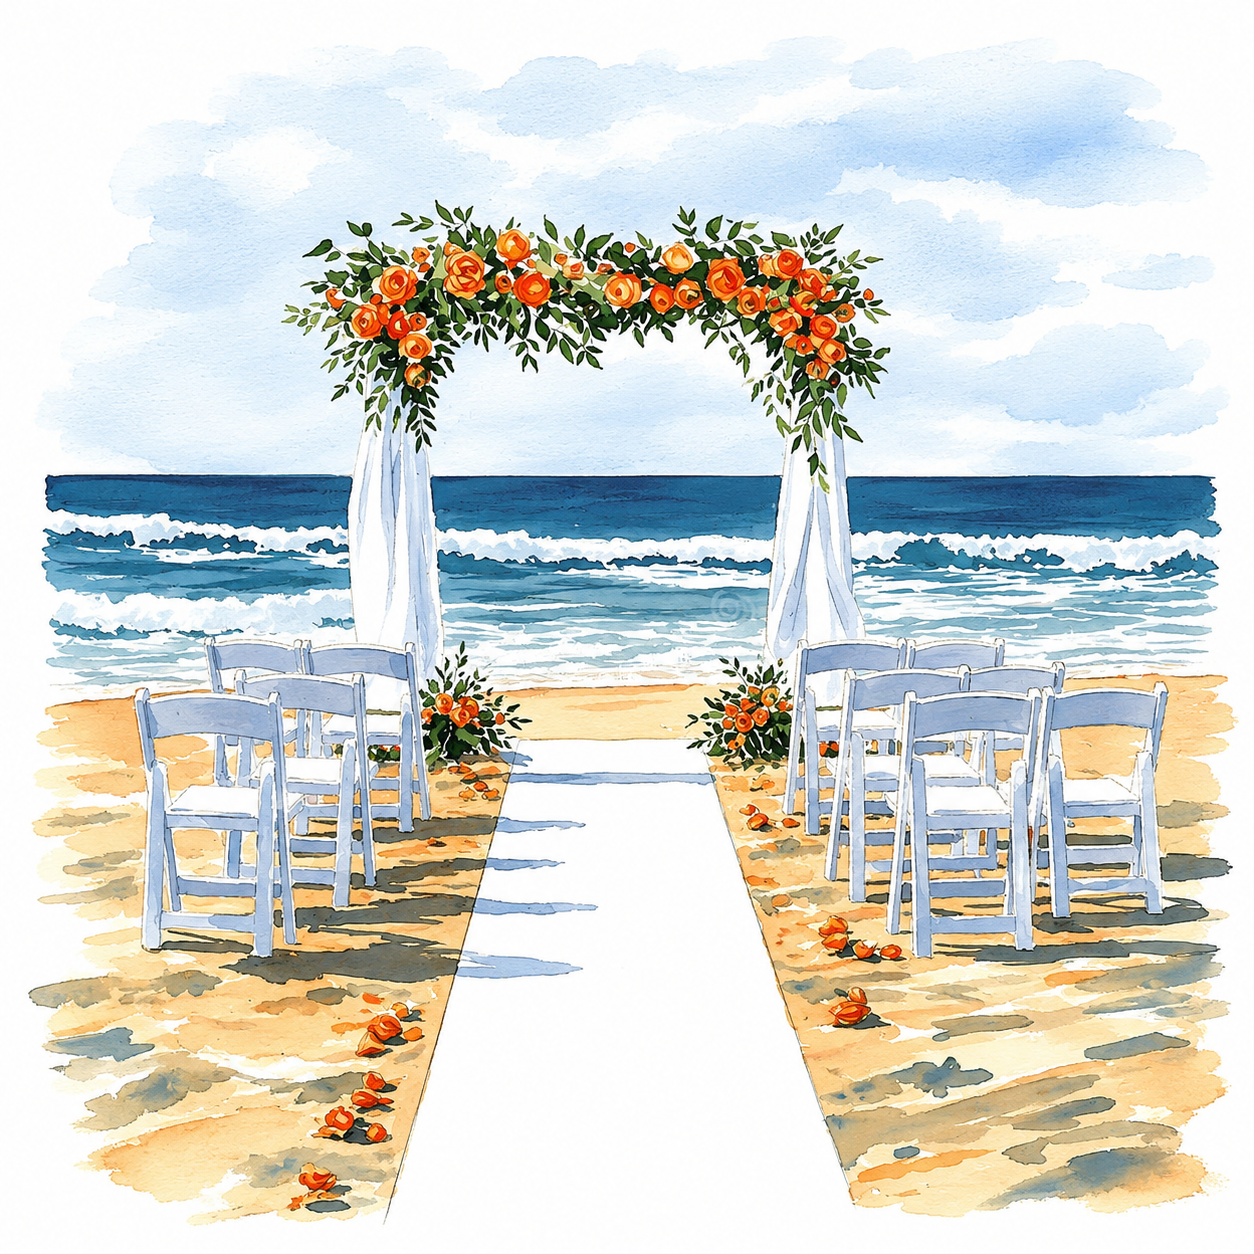
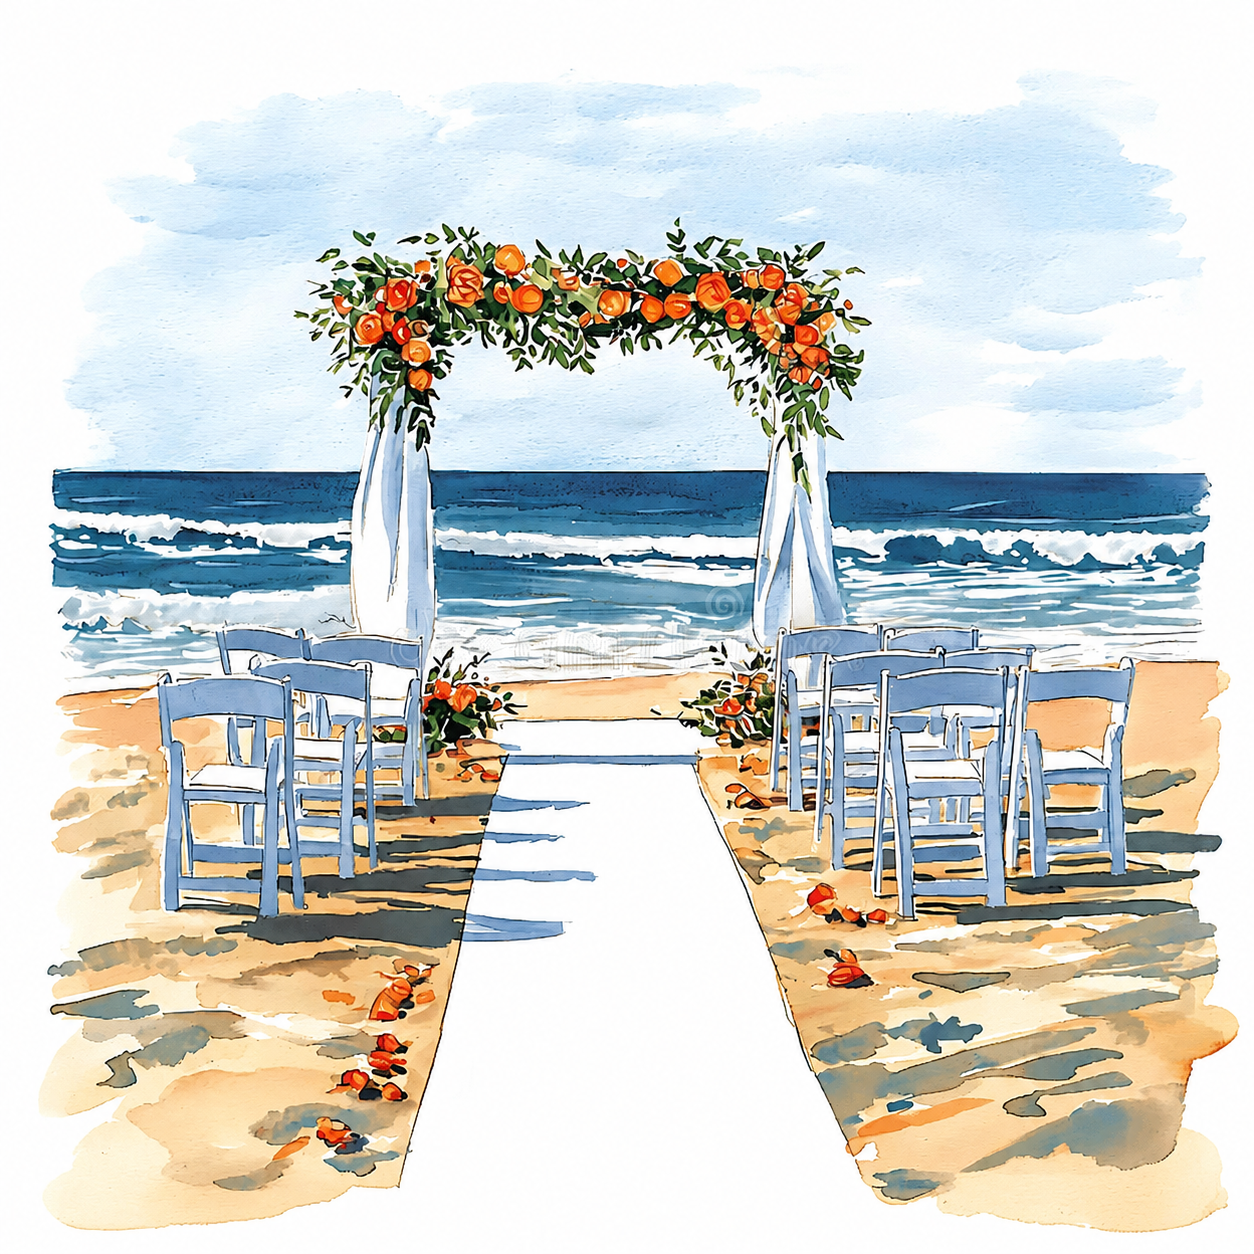
fix

diff --git a/src/pages/Dashboard.jsx b/src/pages/Dashboard.jsx
@@ -15,6 +15,14 @@ const PHOTO_FIT_OPTIONS = [
   { value: 'contain', label: 'Fit', hint: 'Keep the whole photo visible' },
 ];
 const normalizePhotoFit = (value) => (value === 'contain' || value === 'fit' ? 'contain' : 'cover');
+// The envelope "A Note" message every design shows in its demo — used as the
+// placeholder so a blank field keeps the default note.
+const DEFAULT_ENVELOPE_MESSAGE = 'Thank you for being part of the moments that brought us here. We feel incredibly lucky to celebrate this beginning with the people we love most.';
+// Optional fields a design actually renders — matches the order flow so the
+// dashboard only offers toggles that affect the chosen invitation.
+const TEMPLATE_FIELD_SUPPORT = {
+  theater: { venueAddress: false },
+};
 
 export default function Dashboard() {
   const { editToken } = useParams();
@@ -30,6 +38,7 @@ export default function Dashboard() {
   // Edit mode
   const [editing, setEditing] = useState(false);
   const [editForm, setEditForm] = useState({});
+  const [editDisabledFields, setEditDisabledFields] = useState([]);
   const [editPhotos, setEditPhotos] = useState({ story: [], gallery: [] });
   const [editStoryMilestones, setEditStoryMilestones] = useState([]);
   const [photoUploading, setPhotoUploading] = useState({});
@@ -66,8 +75,9 @@ export default function Dashboard() {
       venue: wd.venue || '',
       venueAddress: wd.venueAddress || '',
       venueMapUrl: wd.venueMapUrl || '',
-      message: wd.message || '',
+      coupleMessage: order.coupleMessage || '',
     });
+    setEditDisabledFields(Array.isArray(order.disabledFields) ? order.disabledFields : []);
     // Categorize existing photos. Venue photos are no longer edited separately,
     // so any legacy venue/uncategorized photos fold into the gallery.
     const allPhotos = order.photos || [];
@@ -183,6 +193,12 @@ export default function Dashboard() {
     setEditForm(prev => ({ ...prev, [key]: value }));
   };
 
+  // Optional fields can be turned on/off, mirroring the order flow.
+  const isFieldDisabled = (key) => editDisabledFields.includes(key);
+  const toggleEditField = (key) => {
+    setEditDisabledFields(prev => (prev.includes(key) ? prev.filter(k => k !== key) : [...prev, key]));
+  };
+
   const handleEditPhotoUpload = async (e, category) => {
     const files = e.target.files;
     if (!files.length) return;
@@ -230,7 +246,6 @@ export default function Dashboard() {
         venue: editForm.venue,
         venueAddress: editForm.venueAddress || undefined,
         venueMapUrl: editForm.venueMapUrl || undefined,
-        message: editForm.message || undefined,
       };
       // Include name fields if they were editable (grace period)
       if (nameEditable) {
@@ -249,6 +264,8 @@ export default function Dashboard() {
         headers: { 'Content-Type': 'application/json' },
         body: JSON.stringify({
           weddingDetails: weddingDetailsPayload,
+          coupleMessage: editForm.coupleMessage?.trim() || '',
+          disabledFields: editDisabledFields,
           photos: flattenEditPhotos(),
           storyMilestones: cleanedMilestones,
         }),
@@ -301,6 +318,7 @@ export default function Dashboard() {
 
   const inviteUrl = `${window.location.origin}/i/${order.publicSlug}`;
   const wd = order.weddingDetails || {};
+  const venueAddressSupported = (TEMPLATE_FIELD_SUPPORT[order.template?.slug] || {}).venueAddress !== false;
 
   return (
     <div className="dash-page">
@@ -429,17 +447,56 @@ export default function Dashboard() {
                   <label>Venue Name</label>
                   <input type="text" value={editForm.venue} onChange={e => handleEditInput('venue', e.target.value)} />
                 </div>
-                <div className="form-field">
-                  <label>Venue Address</label>
-                  <input type="text" value={editForm.venueAddress} onChange={e => handleEditInput('venueAddress', e.target.value)} />
+                {venueAddressSupported && (
+                  <div className={`form-field ${isFieldDisabled('venueAddress') ? 'field-disabled' : ''}`}>
+                    <div className="dash-field-header">
+                      <label>Venue Address</label>
+                      <button type="button" className="dash-field-toggle" onClick={() => toggleEditField('venueAddress')}>
+                        {isFieldDisabled('venueAddress') ? 'Enable' : 'Disable'}
+                      </button>
+                    </div>
+                    {!isFieldDisabled('venueAddress') && (
+                      <input type="text" value={editForm.venueAddress} onChange={e => handleEditInput('venueAddress', e.target.value)} />
+                    )}
+                  </div>
+                )}
+                <div className={`form-field ${isFieldDisabled('venueMapUrl') ? 'field-disabled' : ''}`}>
+                  <div className="dash-field-header">
+                    <label>Google Maps Link</label>
+                    <button type="button" className="dash-field-toggle" onClick={() => toggleEditField('venueMapUrl')}>
+                      {isFieldDisabled('venueMapUrl') ? 'Enable' : 'Disable'}
+                    </button>
+                  </div>
+                  {!isFieldDisabled('venueMapUrl') && (
+                    <input type="url" value={editForm.venueMapUrl} onChange={e => handleEditInput('venueMapUrl', e.target.value)} />
+                  )}
                 </div>
-                <div className="form-field">
-                  <label>Google Maps Link</label>
-                  <input type="url" value={editForm.venueMapUrl} onChange={e => handleEditInput('venueMapUrl', e.target.value)} />
+                <div className={`form-field full-width ${isFieldDisabled('coupleMessage') ? 'field-disabled' : ''}`}>
+                  <div className="dash-field-header">
+                    <label>Envelope Message</label>
+                    <button type="button" className="dash-field-toggle" onClick={() => toggleEditField('coupleMessage')}>
+                      {isFieldDisabled('coupleMessage') ? 'Enable' : 'Disable'}
+                    </button>
+                  </div>
+                  {!isFieldDisabled('coupleMessage') && (
+                    <>
+                      <textarea rows={4} value={editForm.coupleMessage} placeholder={DEFAULT_ENVELOPE_MESSAGE} onChange={e => handleEditInput('coupleMessage', e.target.value)} />
+                      <p className="form-hint">Shown inside the envelope. Leave blank to keep the demo note.</p>
+                    </>
+                  )}
                 </div>
-                <div className="form-field full-width">
-                  <label>Personal Message</label>
-                  <textarea rows={3} value={editForm.message} onChange={e => handleEditInput('message', e.target.value)} />
+                <div className={`form-field full-width ${isFieldDisabled('rsvp') ? 'field-disabled' : ''}`}>
+                  <div className="dash-field-header">
+                    <label>RSVP Section</label>
+                    <button type="button" className="dash-field-toggle" onClick={() => toggleEditField('rsvp')}>
+                      {isFieldDisabled('rsvp') ? 'Enable' : 'Disable'}
+                    </button>
+                  </div>
+                  <p className="form-hint" style={{ margin: 0 }}>
+                    {isFieldDisabled('rsvp')
+                      ? 'Guests won’t see an RSVP form on your invitation.'
+                      : 'Guests can RSVP directly from your invitation.'}
+                  </p>
                 </div>
               </div>
 

diff --git a/src/styles/OrderSuccess.css b/src/styles/OrderSuccess.css
@@ -44,58 +44,82 @@
   line-height: 1.7;
 }
 
-.success-links {
-  display: flex;
-  flex-direction: column;
-  gap: 12px;
-  margin-bottom: 32px;
-}
-
-.success-link-card {
+/* Private code chip */
+.success-code {
   background: var(--bg-alt);
+  border: 1px solid var(--border-light);
   border-radius: var(--radius-md);
-  padding: 14px 16px;
+  padding: 16px 18px;
+  margin-bottom: 28px;
   text-align: left;
-  display: grid;
-  grid-template-columns: minmax(0, 1fr) auto;
-  gap: 6px 12px;
-  align-items: center;
 }
-.link-label {
+.success-code-label {
   display: block;
-  grid-column: 1 / -1;
   font-size: 0.72rem;
-  font-weight: 500;
+  font-weight: 600;
   letter-spacing: 0.08em;
   text-transform: uppercase;
   color: var(--text-light);
-  margin-bottom: 6px;
+  margin-bottom: 8px;
 }
-.success-link-card code {
-  font-size: 0.82rem;
+.success-code-row {
+  display: flex;
+  align-items: center;
+  gap: 10px;
+}
+.success-code-row code {
+  flex: 1;
+  font-size: 1.05rem;
+  font-weight: 600;
+  letter-spacing: 0.04em;
   color: var(--gold);
   word-break: break-all;
 }
-.success-link-card button {
+.success-code-copy {
+  flex: 0 0 auto;
   border: 1px solid var(--border-light);
   border-radius: var(--radius-sm);
   background: var(--white);
   color: var(--text);
-  padding: 7px 10px;
+  padding: 8px 14px;
   font: inherit;
-  font-size: 0.78rem;
+  font-size: 0.8rem;
+  font-weight: 500;
   cursor: pointer;
+  transition: var(--transition);
 }
-.success-link-card button:hover {
+.success-code-copy:hover {
   border-color: var(--gold);
   color: var(--gold);
 }
+.success-code-hint {
+  display: block;
+  margin-top: 8px;
+  font-size: 0.78rem;
+  color: var(--text-secondary);
+}
 
+/* Action buttons — stacked, full-width, clear hierarchy */
 .success-actions {
   display: flex;
-  gap: 12px;
+  flex-direction: column;
+  gap: 10px;
+  align-items: stretch;
+}
+.success-btn {
+  width: 100%;
   justify-content: center;
-  flex-wrap: wrap;
+  min-height: 50px;
+}
+.success-home-link {
+  margin-top: 6px;
+  font-size: 0.88rem;
+  font-weight: 500;
+  color: var(--text-secondary);
+  transition: var(--transition);
+}
+.success-home-link:hover {
+  color: var(--gold);
 }
 
 .success-loading {

diff --git a/src/pages/OrderSuccess.jsx b/src/pages/OrderSuccess.jsx
@@ -46,7 +46,6 @@ export default function OrderSuccess() {
 
   const isPaid = order?.paymentStatus === 'paid';
   const invitationUrl = order?.invitationUrl || (order?.publicSlug ? `${window.location.origin}/i/${order.publicSlug}` : '');
-  const dashboardUrl = order?.dashboardUrl || (order?.editToken ? `${window.location.origin}/dashboard/${order.editToken}` : '');
   const copyLink = async (value, key) => {
     if (!value) return;
     await navigator.clipboard.writeText(value);
@@ -87,58 +86,42 @@ export default function OrderSuccess() {
 
           <h1>Payment Verified</h1>
           <p className="success-subtitle">
-            Congratulations! Your invitation is live now. We also sent these links to your email.
+            Congratulations! Your invitation is live. We've also emailed your links and private code.
           </p>
 
-          {invitationUrl && (
-            <div className="success-links">
-              {order.invitationCode && (
-                <div className="success-link-card">
-                  <span className="link-label">Invitation Code</span>
-                  <code>{order.invitationCode}</code>
-                  <button type="button" onClick={() => copyLink(order.invitationCode, 'code')}>
-                    {copied === 'code' ? 'Copied' : 'Copy'}
-                  </button>
-                </div>
-              )}
-              <div className="success-link-card">
-                <span className="link-label">Invitation Link (share with guests)</span>
-                <code>{invitationUrl}</code>
-                <button type="button" onClick={() => copyLink(invitationUrl, 'invitation')}>
-                  {copied === 'invitation' ? 'Copied' : 'Copy'}
+          {order.invitationCode && (
+            <div className="success-code">
+              <span className="success-code-label">Your private code</span>
+              <div className="success-code-row">
+                <code>{order.invitationCode}</code>
+                <button type="button" className="success-code-copy" onClick={() => copyLink(order.invitationCode, 'code')}>
+                  {copied === 'code' ? 'Copied!' : 'Copy'}
                 </button>
               </div>
-              {dashboardUrl && (
-                <div className="success-link-card">
-                  <span className="link-label">Dashboard & Edit (private - check your email)</span>
-                  <code>{dashboardUrl}</code>
-                  <button type="button" onClick={() => copyLink(dashboardUrl, 'dashboard')}>
-                    {copied === 'dashboard' ? 'Copied' : 'Copy'}
-                  </button>
-                </div>
-              )}
+              <span className="success-code-hint">Keep this safe — you'll need it to manage your invitation.</span>
             </div>
           )}
 
           <div className="success-actions">
             {order.publicSlug && (
-              <Link to={`/i/${order.publicSlug}`} className="btn btn-gold">
+              <Link to={`/i/${order.publicSlug}`} className="btn btn-gold success-btn">
                 <svg width="18" height="18" viewBox="0 0 24 24" fill="none" stroke="currentColor" strokeWidth="2" strokeLinecap="round" strokeLinejoin="round"><path d="M18 13v6a2 2 0 01-2 2H5a2 2 0 01-2-2V8a2 2 0 012-2h6" /><polyline points="15 3 21 3 21 9" /><line x1="10" y1="14" x2="21" y2="3" /></svg>
                 Open Invitation
               </Link>
             )}
             {invitationUrl && (
-              <button type="button" className="btn btn-gold" onClick={shareInvitation}>
+              <button type="button" className="btn btn-gold success-btn" onClick={shareInvitation}>
                 <svg width="18" height="18" viewBox="0 0 24 24" fill="none" stroke="currentColor" strokeWidth="2" strokeLinecap="round" strokeLinejoin="round"><circle cx="18" cy="5" r="3" /><circle cx="6" cy="12" r="3" /><circle cx="18" cy="19" r="3" /><line x1="8.59" y1="13.51" x2="15.42" y2="17.49" /><line x1="15.41" y1="6.51" x2="8.59" y2="10.49" /></svg>
                 {copied === 'share' ? 'Copied!' : 'Share Invitation'}
               </button>
             )}
             {order.editToken && (
-              <Link to={`/dashboard/${order.editToken}`} className="btn btn-secondary">
+              <Link to={`/dashboard/${order.editToken}`} className="btn btn-secondary success-btn">
+                <svg width="18" height="18" viewBox="0 0 24 24" fill="none" stroke="currentColor" strokeWidth="2" strokeLinecap="round" strokeLinejoin="round"><path d="M3 9l9-7 9 7v11a2 2 0 01-2 2H5a2 2 0 01-2-2z" /><polyline points="9 22 9 12 15 12 15 22" /></svg>
                 Go to Dashboard
               </Link>
             )}
-            <Link to="/" className="btn btn-secondary">Back to Home</Link>
+            <Link to="/" className="success-home-link">Back to Home</Link>
           </div>
         </div>
       </div>

diff --git a/src/styles/Dashboard.css b/src/styles/Dashboard.css
@@ -368,6 +368,33 @@
 }
 .edit-form .form-field { display: flex; flex-direction: column; gap: 6px; }
 .edit-form .form-field.full-width { grid-column: 1 / -1; }
+
+/* Enable/disable toggle for optional fields (mirrors the order flow) */
+.dash-field-header {
+  display: flex;
+  align-items: center;
+  justify-content: space-between;
+  gap: 10px;
+}
+.dash-field-toggle {
+  border: 1px solid var(--border-light);
+  border-radius: 999px;
+  background: var(--white, #fff);
+  color: var(--text-secondary);
+  padding: 3px 12px;
+  font: inherit;
+  font-size: 0.72rem;
+  font-weight: 600;
+  cursor: pointer;
+  transition: var(--transition);
+}
+.dash-field-toggle:hover {
+  border-color: var(--gold);
+  color: var(--gold);
+}
+.edit-form .form-field.field-disabled label {
+  color: var(--text-light, #9a948a);
+}
 .edit-form .form-field label {
   font-size: 0.8rem;
   font-weight: 600;

diff --git a/server/routes/orders.js b/server/routes/orders.js
@@ -344,6 +344,7 @@ router.get('/edit/:editToken', validateEditToken, async (req, res) => {
       template: order.template,
       templateName: order.templateName || order.template?.name,
       weddingDetails: order.weddingDetails,
+      coupleMessage: order.coupleMessage,
       customizations: order.customizations,
       disabledFields: order.disabledFields,
       colorOverrides: order.colorOverrides,
@@ -537,6 +538,7 @@ router.get('/dashboard/:editToken', validateEditToken, async (req, res) => {
       template: order.template,
       templateName: order.templateName || order.template?.name,
       weddingDetails: order.weddingDetails,
+      coupleMessage: order.coupleMessage,
       customizations: order.customizations,
       disabledFields: order.disabledFields,
       colorOverrides: order.colorOverrides,

diff --git a/src/pages/OrderFlow.jsx b/src/pages/OrderFlow.jsx
@@ -920,7 +920,7 @@ export default function OrderFlow() {
                               placeholder={TEMPLATE_DEMO_ENVELOPE_MESSAGE[selectedTemplate?.slug] || DEFAULT_ENVELOPE_MESSAGE}
                             />
                             <p className="form-hint message-hint">
-                              The longer note revealed inside the envelope. Leave blank to use the message shown in the demo.
+                              Shown inside the envelope. Leave blank to keep the demo note.
                             </p>
                           </>
                         ) : (